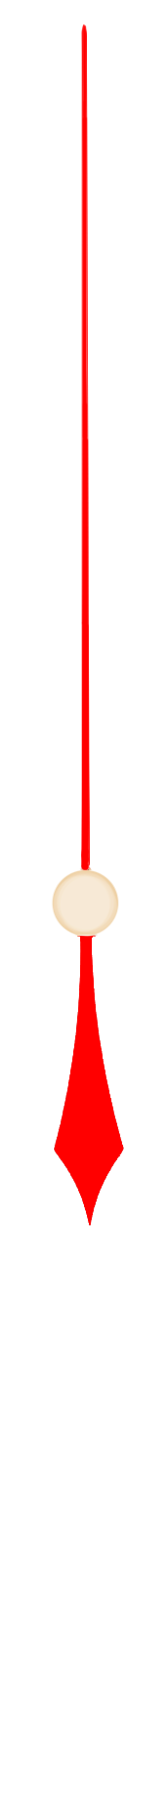
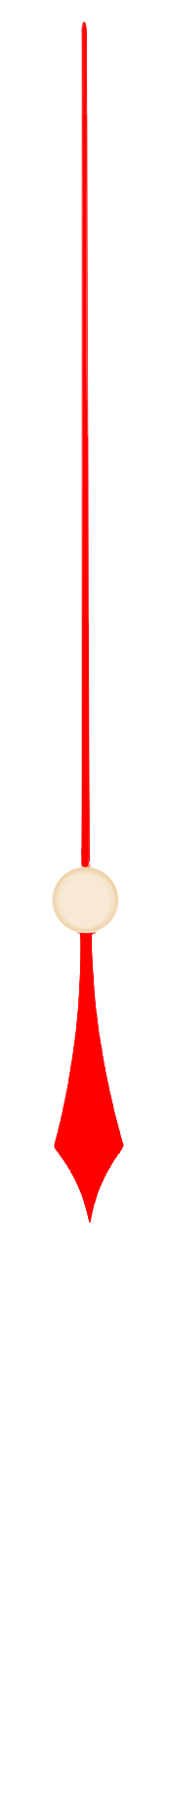
Сделать часы

diff --git a/src/components/Clock.js b/src/components/Clock.js
@@ -25,13 +25,13 @@ function Clock() {
     <div className="clock" style={{backgroundImage: `url(${dial})`}}>
       <div className="clock__type_sec" style={{
         backgroundImage: `url(${secondHand})`,
-        transform: `rotate(${0.006*(second*1000 + millisecond)}deg)`}}></div>
+        transform: `rotate(${180}deg)`}}></div>
       <div className="clock__type_min" style={{
         backgroundImage: `url(${minuteHand})`,
-        transform: `rotate(${6*(minute + second/60)}deg)`}}></div>
+        transform: `rotate(${0}deg)`}}></div>
       <div className="clock__type_hour" style={{
         backgroundImage: `url(${hourHand})`,
-        transform: `rotate(${30*(hour + minute/60)}deg)`}}></div>
+        transform: `rotate(${180}deg)`}}></div>
     </div>
   );
 }

diff --git a/src/components/Clock.css b/src/components/Clock.css
@@ -44,8 +44,8 @@
   .clock__type_min {
     width: 31px;
     height: 280px;
-    left: 144px;
-    top: 20px;
+    left: 145px;
+    top: 19px;
   }
  }
 .clock__type_hour {
@@ -62,7 +62,7 @@
   .clock__type_hour {
     width: 34px;
     height: 180px;
-    left: 141px;
-    top: 69px;
+    left: 143px;
+    top: 70px;
   }
  }
